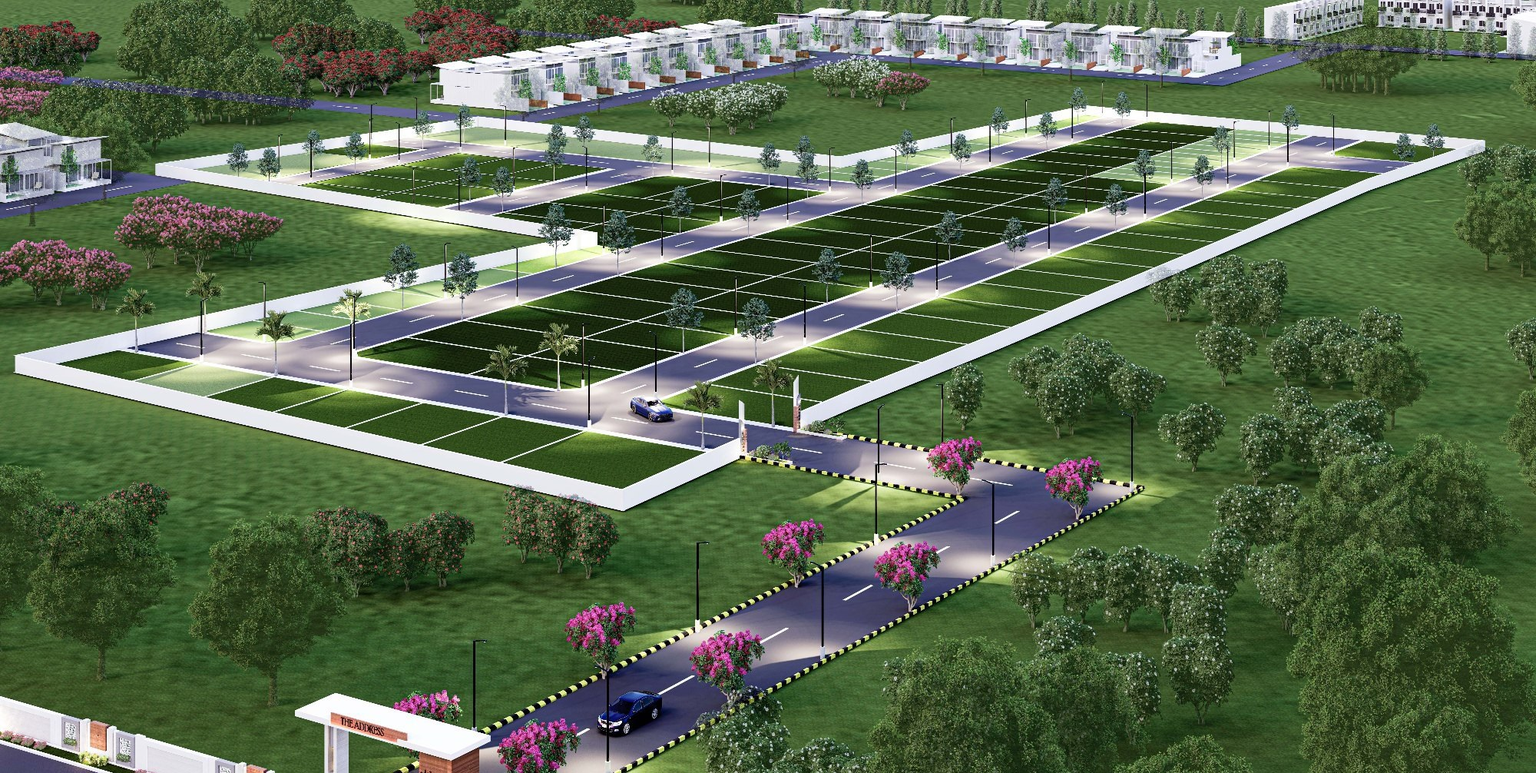
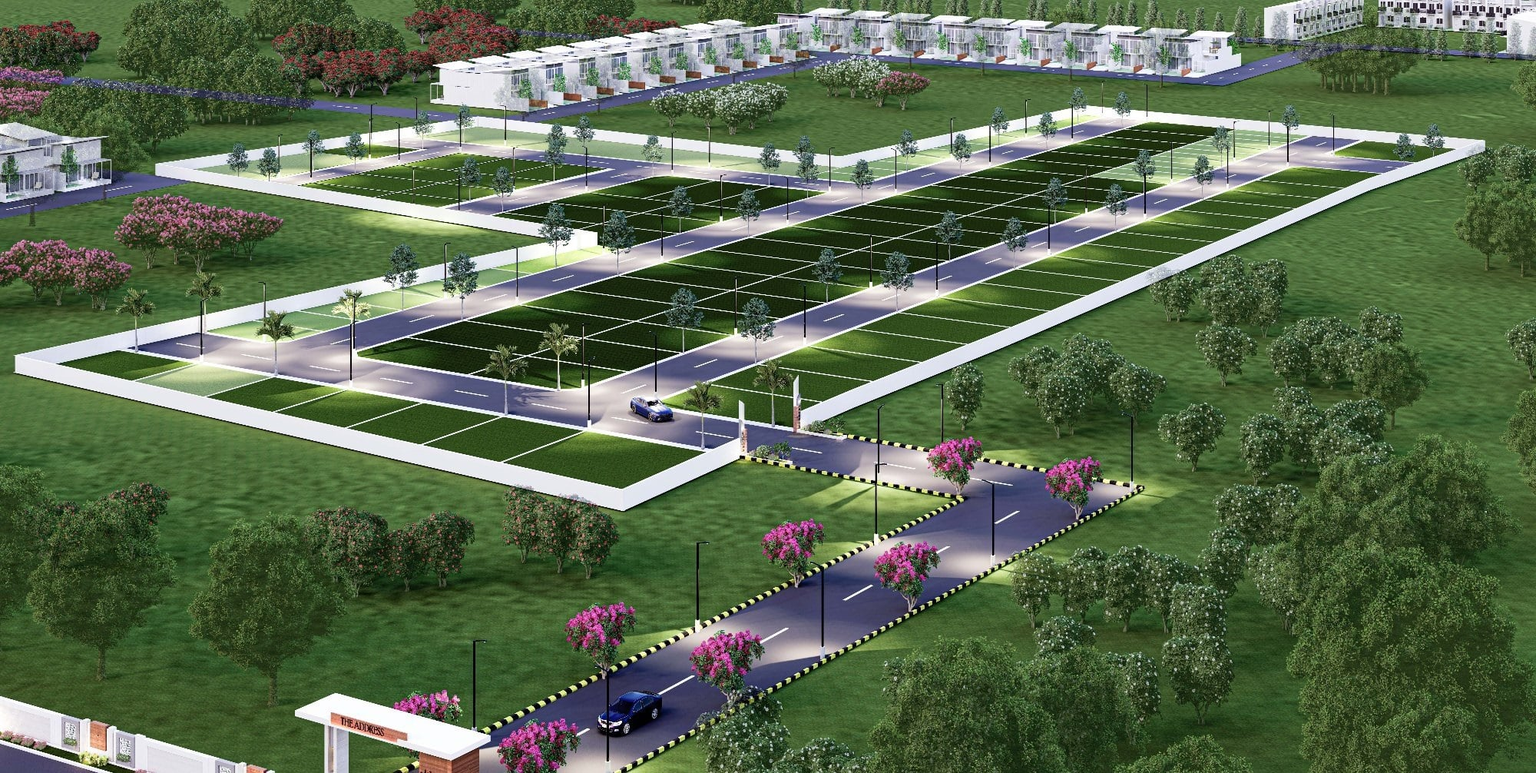
h1 tags

diff --git a/src/PropertyPages/Banner.jsx b/src/PropertyPages/Banner.jsx
@@ -171,9 +171,9 @@ const Banner = ({ property }) => {
       <div className="md:hidden ">
         <h2 className="text-md text-center font-bold effetGradient">{property.tag}</h2>
         <div className=" p-3 ">
-          <h1 className="text-center text-xl font-bold text-green-700" style={{ paddingBottom: "10px" }}>
+          <p className="text-center text-xl font-bold text-green-700" style={{ paddingBottom: "10px" }}>
             {property.project_Name}
-          </h1>
+          </p>
           <p className="text-center font-medium border border-green-600 rounded-t-md p-2">{property.location}</p>
           <p className="text-center font-bold  pt-2">{property.developer}</p>
           <div className="mt-4 ">

diff --git a/src/BannerMain.jsx b/src/BannerMain.jsx
@@ -48,9 +48,9 @@ function BannerMain({isModalOpen, setIsModalOpen}) {
               <div
                 className={`text-center transition-opacity duration-1000 ease-in-out ${fade ? 'opacity-100' : 'opacity-0'}`}
               >
-                <h1 className="text-3xl md:text-6xl font-bold text-white">
+                <p className="text-3xl md:text-6xl font-bold text-white">
                   {titles[currentIndex]}
-                </h1>
+                </p>
                 <button
                   onClick={() => setIsModalOpen(true)}
                   className="mt-4 px-6 py-2 md:py-3 bg-transparent border-green-500 border-2 hover:bg-green-500 text-white font-semibold rounded-lg md:rounded-full"

diff --git a/src/Plotslist.jsx b/src/Plotslist.jsx
@@ -40,7 +40,7 @@ function Plotslist({ setPropertyId }) {
   return (
     <section className="container-fluid mx-auto px-4 md:px-24 py-8">
       <div className="flex justify-between items-center mb-8">
-        <h2 className="text-3xl font-semibold">Latest Plots</h2>
+      <h1 className="text-3xl font-semibold hover:text-green-500 hover:cursor-pointer">Plots In Bangalore</h1>
         <Link to="/" className="text-gray-600 hover:text-black flex items-center">
           Plots List &darr;
         </Link>
